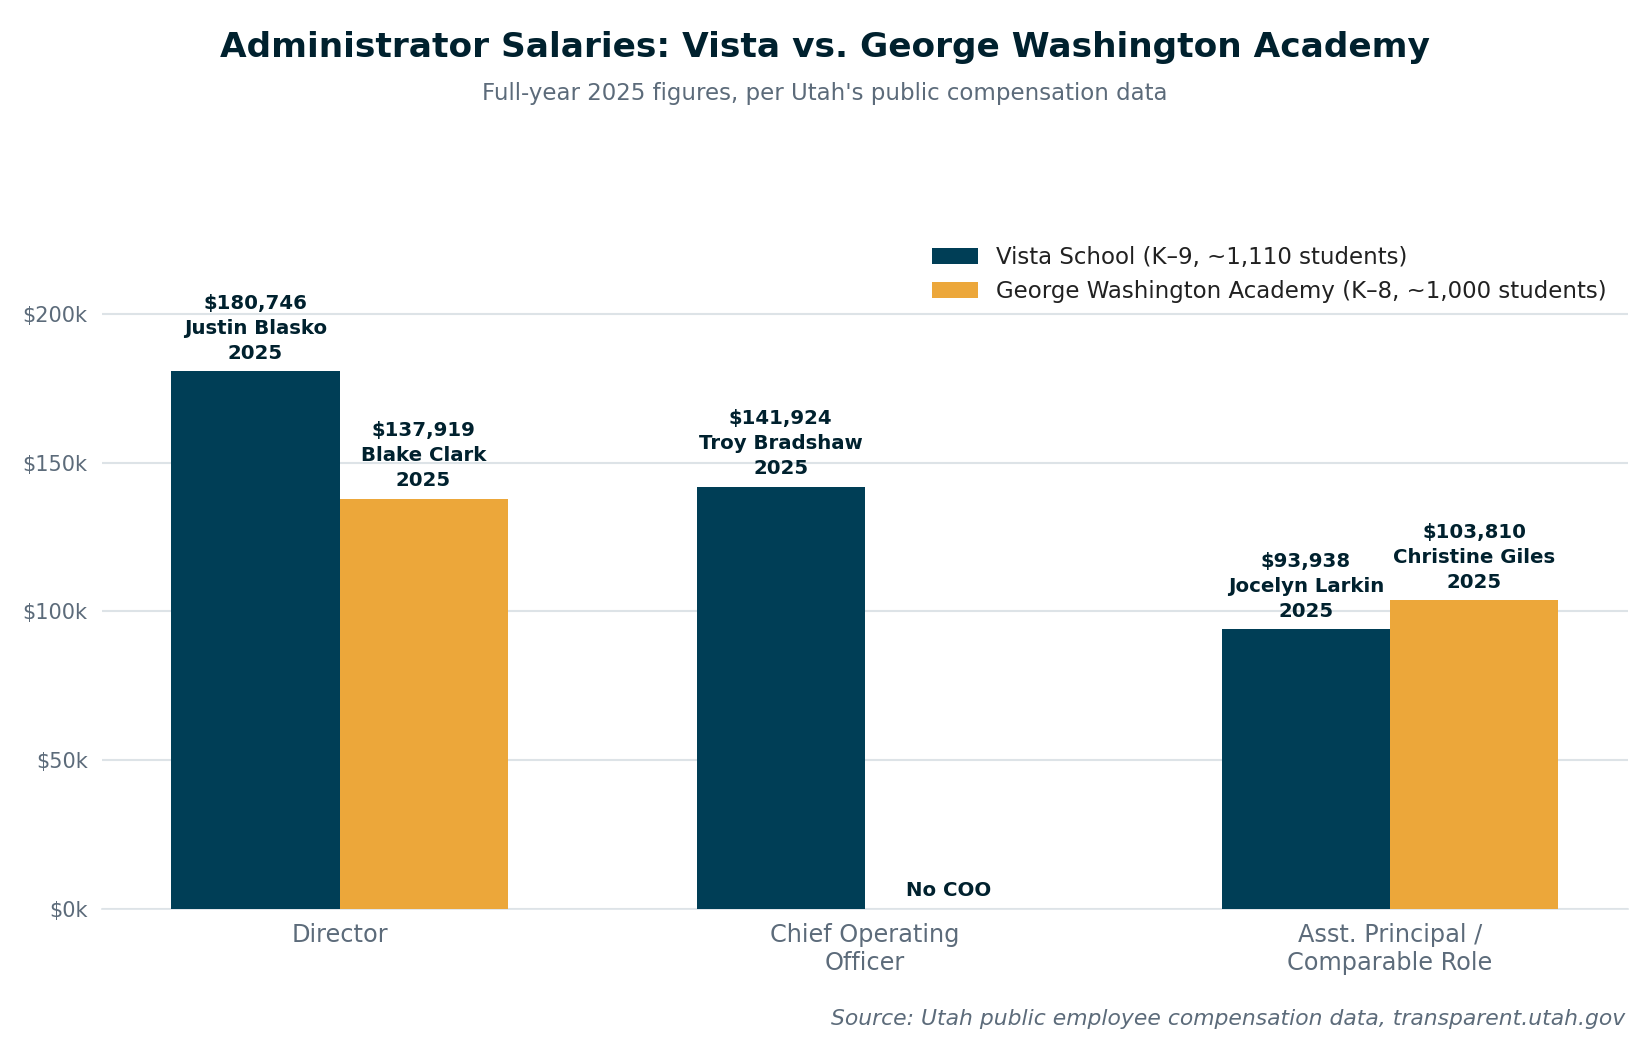
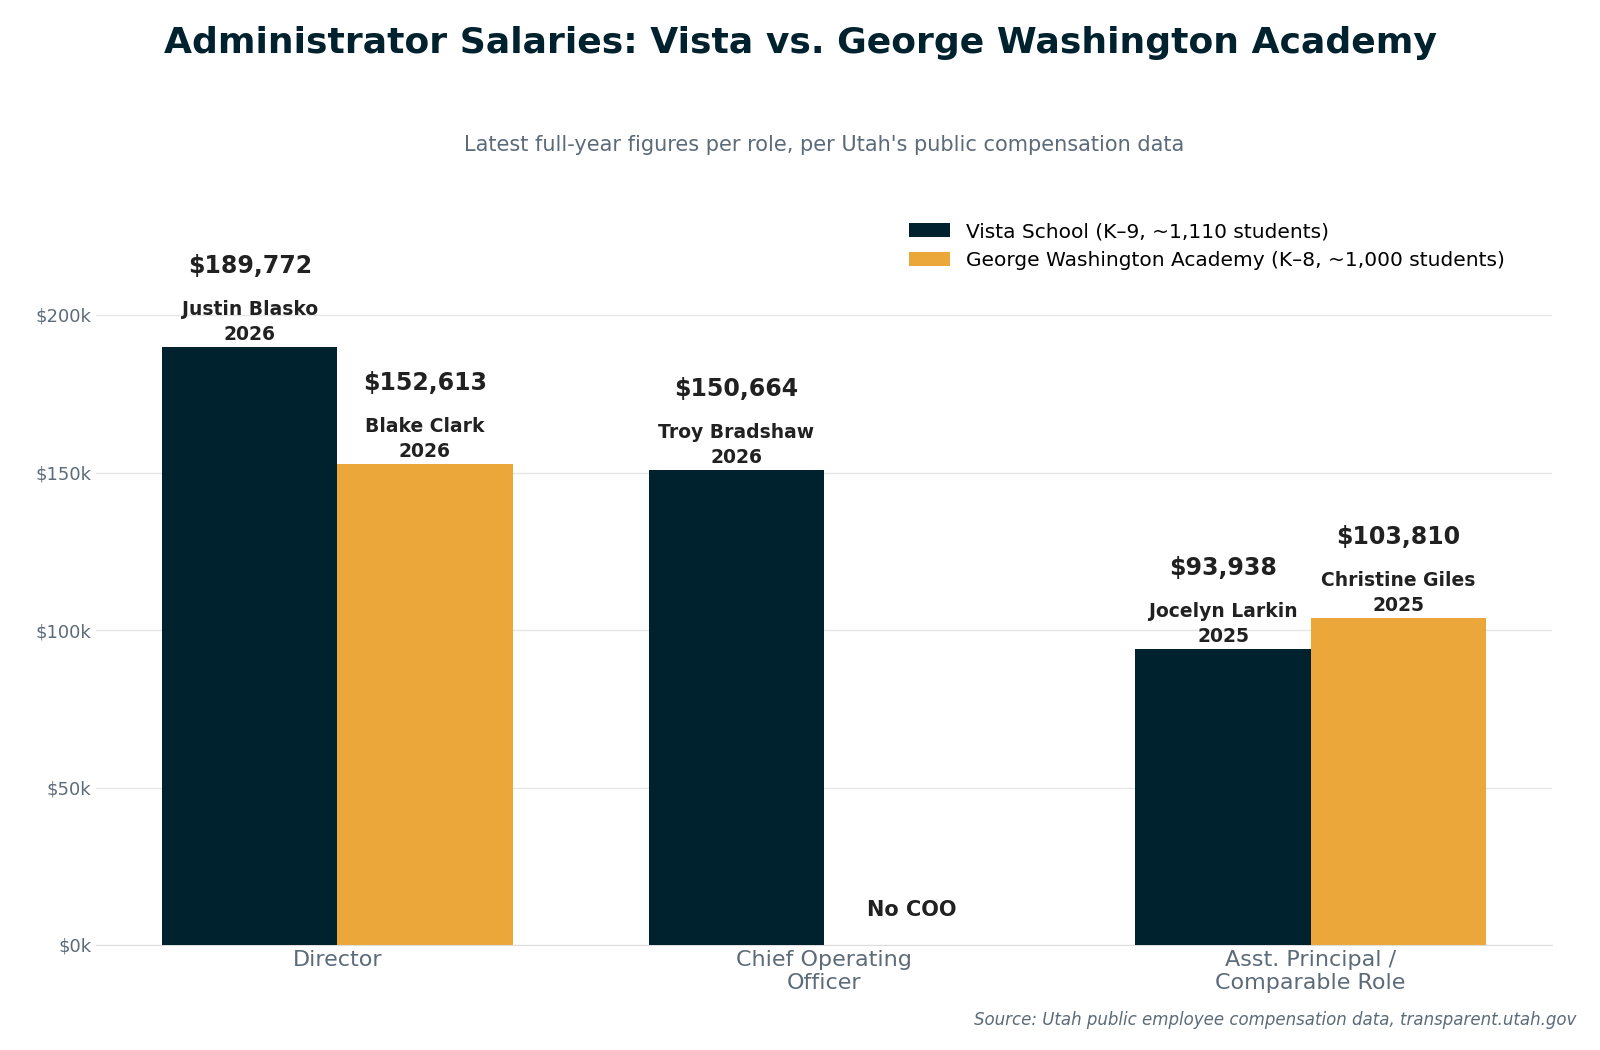
Update admin salary chart with fresh 2026 Transparent Utah figures
Director (Blasko $189,772 vs GWA's Blake Clark $152,613) and Chief
Operating Officer (Bradshaw $150,664, GWA still has no equivalent role)
now show full-year 2026 wages. The Asst. Principal/Comparable Role bar
stays at its last clean full-year figures (2025: Larkin $93,938 vs GWA's
Giles $103,810) per Russ -- that role changed hands mid-2026 (Giles moved
from GWA to Vista) so neither side has a clean full 2026 number for it.

Chart regenerated with matplotlib matching the site's existing style;
alt text on both index.html and es/index.html updated to match, noting
each bar's own year since they're no longer all the same year.

Claude-Session: https://claude.ai/code/session_01FUjib1edP9mHNJo1i28WBb

diff --git a/es/index.html b/es/index.html
@@ -244,7 +244,7 @@
     </p>
     <div class="exhibit-grid" style="grid-template-columns:1fr;max-width:900px;margin-left:auto;margin-right:auto;">
       <div class="exhibit-card">
-        <img src="../assets/leadership/salary-comparison-chart.png" alt="Gráfica de barras que compara los salarios de los administradores de Vista School y George Washington Academy, cifras del año completo 2025: Director $180,746 frente a $137,919; Director de Operaciones $141,924 sin puesto equivalente; Subdirector/puesto comparable $93,938 frente a $103,810.">
+        <img src="../assets/leadership/salary-comparison-chart.png" alt="Gráfica de barras que compara los salarios de los administradores de Vista School y George Washington Academy: Director (2026) $189,772 frente a $152,613; Director de Operaciones (2026) $150,664 sin puesto equivalente; Subdirector/puesto comparable (2025) $93,938 frente a $103,810.">
         <p class="exhibit-caption">Salarios de los administradores de Vista comparados con los de George Washington Academy, según los datos públicos de compensación de Utah.</p>
       </div>
     </div>

diff --git a/index.html b/index.html
@@ -249,7 +249,7 @@
     </p>
     <div class="exhibit-grid" style="grid-template-columns:1fr;max-width:900px;margin-left:auto;margin-right:auto;">
       <div class="exhibit-card">
-        <img src="assets/leadership/salary-comparison-chart.png" alt="Bar chart comparing administrator salaries at Vista School and George Washington Academy, full-year 2025 figures: Director $180,746 vs $137,919; Chief Operating Officer $141,924 vs no equivalent role; Assistant Principal/comparable role $93,938 vs $103,810.">
+        <img src="assets/leadership/salary-comparison-chart.png" alt="Bar chart comparing administrator salaries at Vista School and George Washington Academy: Director (2026) $189,772 vs $152,613; Chief Operating Officer (2026) $150,664 vs no equivalent role; Assistant Principal/comparable role (2025) $93,938 vs $103,810.">
         <p class="exhibit-caption">Administrator salaries at Vista compared to George Washington Academy, per Utah's public compensation data.</p>
       </div>
     </div>
